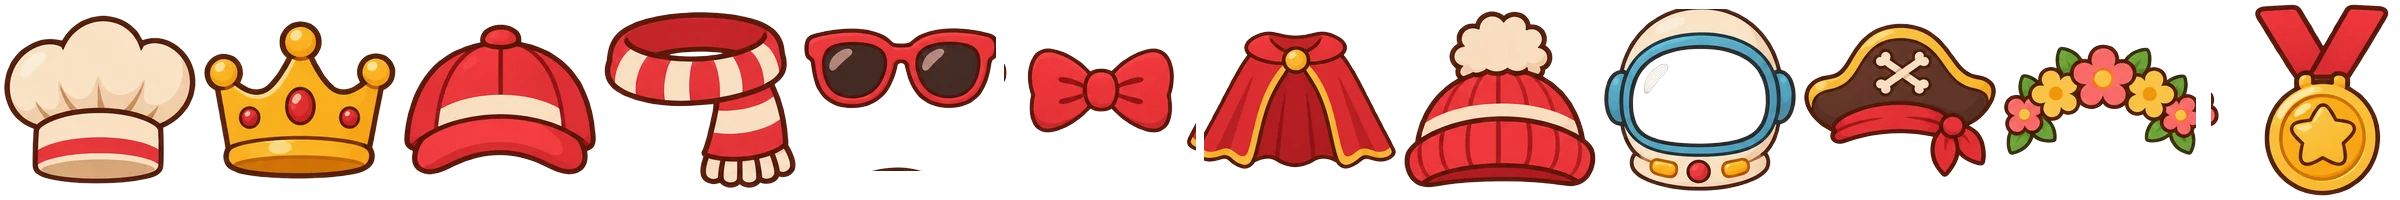
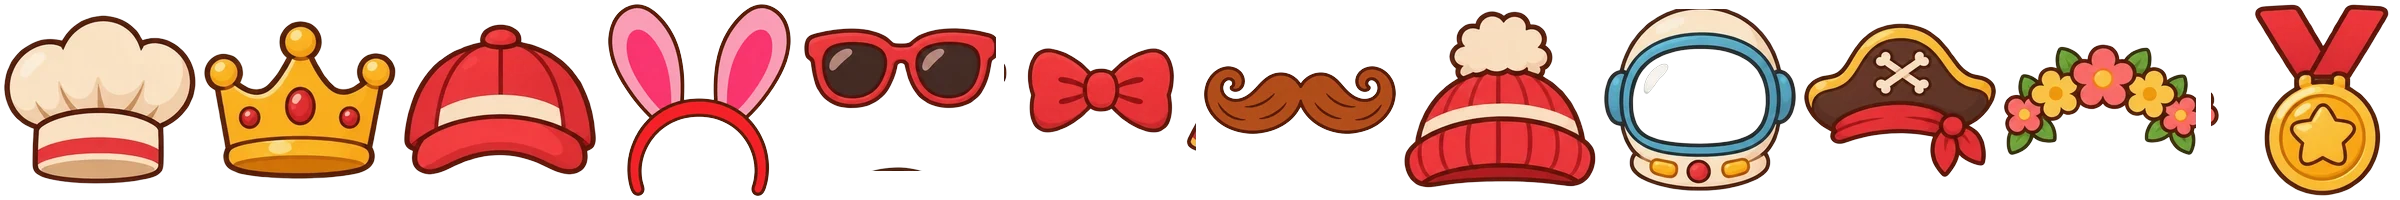
Ma socca : oreilles de lapin et moustache remplacent l'écharpe et la cape
Claude-Session: https://claude.ai/code/session_01J1vkergBEJw5xYESnCtgQz

Changed region(s): [[0.25, 0.03, 0.3438, 0.96], [0.5, 0.15, 0.5938, 0.84]]

diff --git a/moteur/index.html b/moteur/index.html
@@ -275,8 +275,8 @@ function album() {
 }
 /* ---------- petits : habiller la socca. Chaque notion acquise (ou maîtrisée) débloque un accessoire ----------
    [centre x, centre y, taille] dans l'image de la mascotte (384 px), 1 = derrière (cape) */
-const ACCESSOIRES = [["chapeau de chef",212,44,130],["couronne",212,32,100],["casquette",212,48,118],["écharpe",205,296,170],["lunettes de soleil",212,166,140],["nœud papillon",205,286,84],
-  ["cape",205,230,300,1],["bonnet",212,42,118],["casque d'astronaute",210,148,245],["chapeau de pirate",212,44,130],["couronne de fleurs",212,68,128],["médaille",205,306,80]];
+const ACCESSOIRES = [["chapeau de chef",212,44,130],["couronne",212,32,100],["casquette",212,48,118],["oreilles de lapin",212,50,170],["lunettes de soleil",212,166,140],["nœud papillon",205,286,84],
+  ["moustache",212,193,96],["bonnet",212,42,118],["casque d'astronaute",210,148,245],["chapeau de pirate",212,44,130],["couronne de fleurs",212,68,128],["médaille",205,306,80]];
 function poupee(k, cls) {
   const a = ACCESSOIRES[k];
   const acc = a ? `<span class="acc" style="left:${((a[1] - a[3] / 2) / 3.84).toFixed(2)}%;top:${((a[2] - a[3] / 2) / 3.84).toFixed(2)}%;width:${(a[3] / 3.84).toFixed(2)}%;height:${(a[3] / 3.84).toFixed(2)}%;background-position:${(k * 100 / 11).toFixed(3)}% 0;z-index:${a[4] ? 0 : 2}"></span>` : "";

diff --git a/CLAUDE.md b/CLAUDE.md
@@ -10,7 +10,7 @@ Ce dépôt (leian/UNIVERSALQUIZ, nom gardé pour ne pas changer l'adresse GitHub
 - Thèmes d'âge : `moteur/commun/themes.css` (petits, lecteurs, explorateurs = style de base, college, lycee, parent). Le serveur pose `<html data-theme>` d'après la classe (`classe_()`, Réglages → `apiClasse`, montée automatique chaque 1er septembre) et ajoute ces styles en fin d'en-tête de chaque page. Les images des thèmes iront sur GitHub Pages (`docs/themes/<thème>/`).
 - Saisons : `saisonDe_()` (Noël en décembre, hiver, Pâques calculé, printemps, été, rentrée 1-20 sept., Halloween 15 oct.-2 nov., automne) pose `<html data-saison>` ; couleurs `--s1/--s2/--s3`, frise, petite animation (petits, lecteurs, explorateurs) et confettis dans `themes.css` / `recompenses.js`. Réglages → `apiSaison` (propriété `SAISON_OFF`), aperçu par `…/exec?saison=noel`. Frises (en haut des pages) et mascottes costumées (accueil, bravo ; petits et primaire seulement) : `docs/themes/saisons/<saison>/`.
 - Révisions : le moteur envoie pour chaque question une clé stable `k` et, si elle est ratée, la question entière `o` (colonne `questions` du Sheets). `revisions_()` applique la répétition espacée (1, 3, 7, 21 jours) et le défi du mois (ratées le mois précédent) ; pages virtuelles `revisions` et `defi` fabriquées par `pageRevision_()`, section « Pour toi » sur l'accueil de l'enfant.
-- Maîtrise et récompenses : `maitrise_()` (serveur, cache 600 s) calcule le niveau de chaque notion (catégorie) et la série de chaque question ; posé dans `__UQ.maitrise` (tirage intelligent, passage à l'écrit, notions, album). Récompenses par profil (`PROFILS` du moteur) : saut de la mascotte (`docs/themes/<thème>/saut.webp`, 6 images) à chaque bonne réponse chez les petits et en fin de quiz au primaire, animaux rares, album d'autocollants (`docs/themes/recompenses/autocollants.webp`, 6×4) au primaire, socca à habiller chez les petits (`accessoires.webp`, 12 accessoires posés sur la mascotte de base, un par notion acquise, `ACCESSOIRES` dans `moteur/index.html`), emblèmes `niveau-0..3.webp` au collège et dans l'espace parent, coche au lycée.
+- Maîtrise et récompenses : `maitrise_()` (serveur, cache 600 s) calcule le niveau de chaque notion (catégorie) et la série de chaque question ; posé dans `__UQ.maitrise` (tirage intelligent, passage à l'écrit, notions, album). Récompenses par profil (`PROFILS` du moteur) : saut de la mascotte (`docs/themes/<thème>/saut.webp`, 6 images) à chaque bonne réponse chez les petits et en fin de quiz au primaire, animaux rares, album d'autocollants (`docs/themes/recompenses/autocollants.webp`, 6×4) au primaire, socca à habiller chez les petits (`accessoires.webp`, 12 accessoires (tête et visage seulement : écharpe et cape remplacées par oreilles de lapin et moustache) posés sur la mascotte de base, un par notion acquise, `ACCESSOIRES` dans `moteur/index.html`), emblèmes `niveau-0..3.webp` au collège et dans l'espace parent, coche au lycée.
 - `build/` : produit par `node construire.mjs`, jamais versionné.
 
 ## Diffuser une modification
